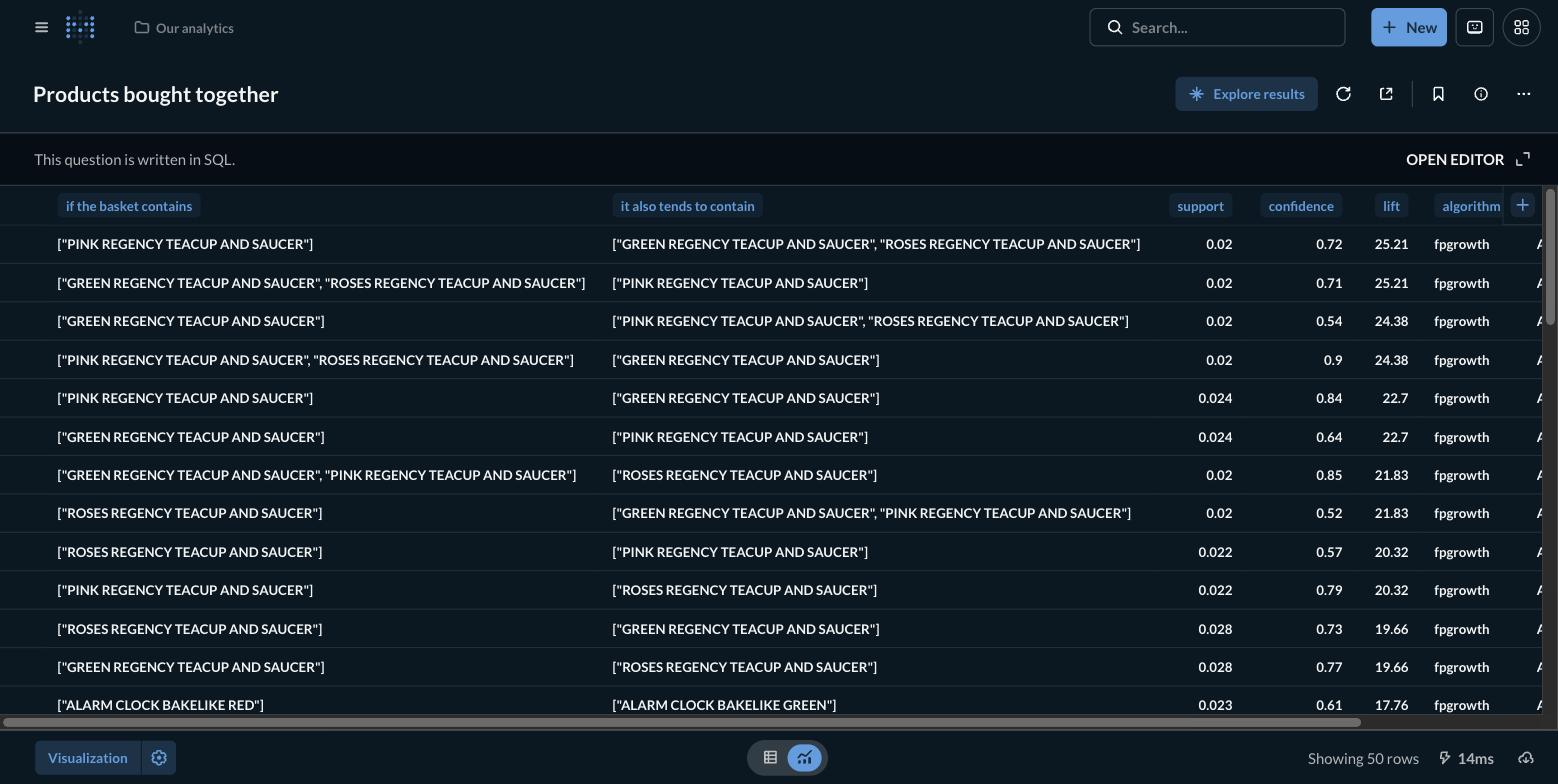
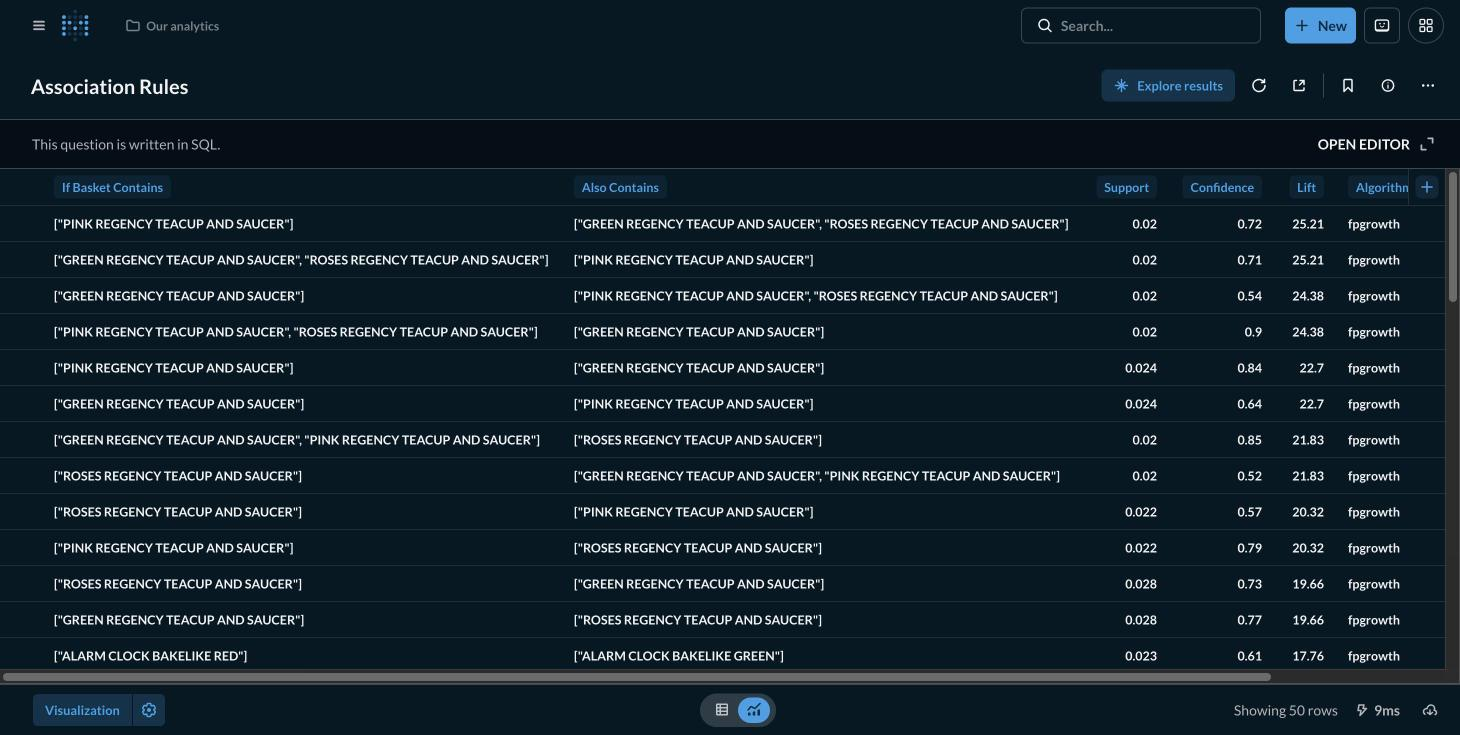
Refresh the README screenshots for the renamed boards

diff --git a/README.md b/README.md
@@ -191,9 +191,9 @@ quoted in chapter 7.
 All three are the running system over the complete Online Retail II dataset,
 both sheets, 39,516 orders spanning 2009 to 2011.
 
-**Metabase**, the sales overview dashboard:
+**Metabase**, the Sales dashboard. Three boards split the twelve cards, as `metabase/README.md` describes:
 
-![Metabase dashboard over the Online Retail II dataset](documents/screenshots/metabase-dashboard.png)
+![Metabase dashboard over the Online Retail II dataset](documents/screenshots/metabase-dashboard.jpg)
 
 **Frequent itemsets**, mined with FP-Growth and read back as association
 rules. Lift is the interesting column, since support and confidence alone
